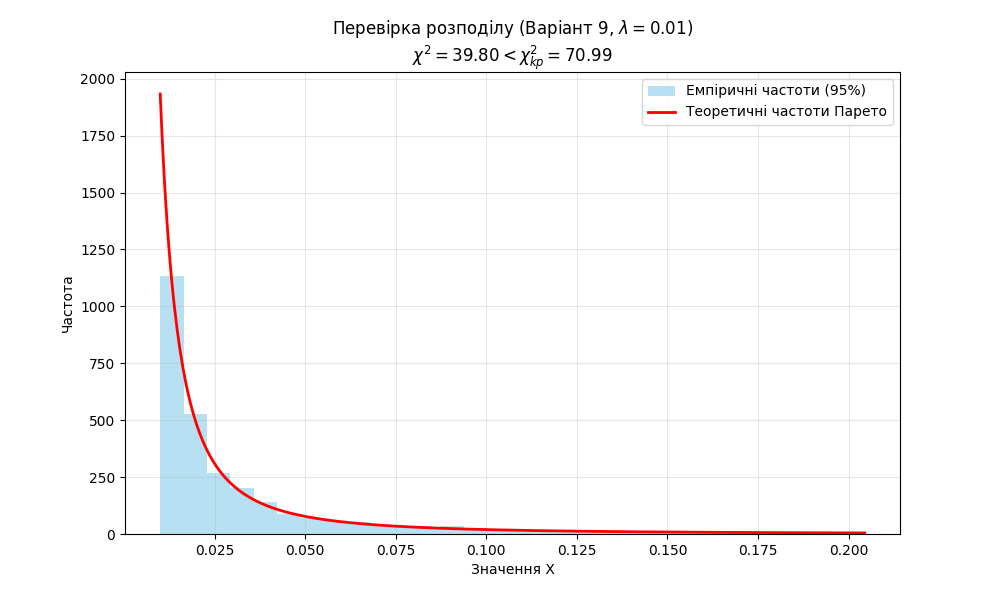
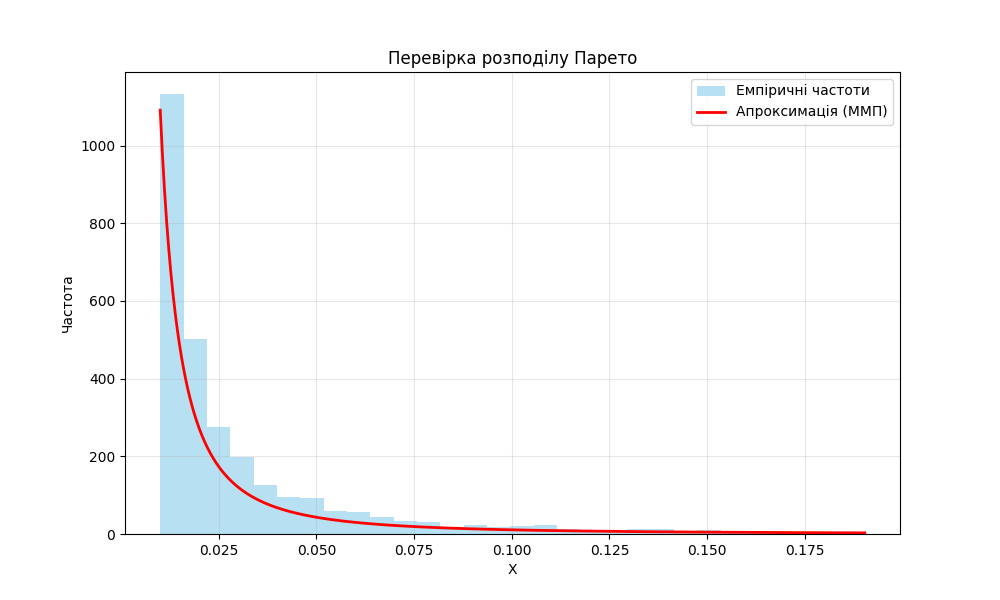
pastka ponomaryova

diff --git a/system-modeling-methods/lab-1/main.py b/system-modeling-methods/lab-1/main.py
@@ -4,56 +4,15 @@ import matplotlib.pyplot as plt
 from scipy import stats
 from tabulate import tabulate
 
-def print_chi_square_table(final_bins, final_ni):
-    table_data = []
-    theoretical_counts = []
-    chi_sq_total = 0
-    
-    for i in range(len(final_ni)):
-        a, b = final_bins[i], final_bins[i+1]
-        obs = final_ni[i]
-        p_i = pareto_cdf(b, lambd, alpha_theory) - pareto_cdf(a, lambd, alpha_theory)
-        expected_n = n * p_i
-        theoretical_counts.append(expected_n)
-        
-        # Обчислення доданку
-        term = ((obs - expected_n)**2) / expected_n if expected_n > 0 else 0
-        chi_sq_total += term
-        
-        # Формуємо рядок: інтервал, спостережувані, теоретичні, внесок у хі-квадрат
-        interval_str = f"[{a:7.4f}, {b:7.4f})"
-        table_data.append([i + 1, interval_str, obs, f"{expected_n:.2f}", f"{term:.4f}"])
-    
-    # Додаємо рядок з сумами
-    table_data.append(["", "РАЗОМ:", sum(final_ni), f"{sum(theoretical_counts):.2f}", f"{chi_sq_total:.4f}"])
-    
-    # Вивід красивої таблиці
-    headers = ["№", "Інтервал [a, b)", "n_i", "np_i^T", "Внесок (chi-sq)"]
-    print("\nСтатистична таблиця перевірки гіпотези:")
-    print(tabulate(table_data, headers=headers, tablefmt="fancy_grid", stralign="center"))
-    
-    return chi_sq_total
+# --- Допоміжні функції ---
 
-# 1. Параметри та генерація
-n = 3000
-lambd = 0.01  # Обраний параметр за умовою
-alpha_theory = 1.0  # Теоретичний показник форми для вашого генератора
-
-# Генеруємо xi ~ U(0, 1) та перетворюємо за формулою x = lambda / xi
-seed = int(time.time())
-np.random.seed(seed)
-xi = np.random.uniform(0, 1, n)
-x = lambd / xi
-
-# 2. Ручний розрахунок емпіричних характеристик
-def manual_stats(data):
-    # Середнє значення
+def manual_stats(data, n):
+    """Розрахунок середнього та дисперсії вручну"""
     s = 0
     for val in data:
         s += val
     mean_val = s / n
     
-    # Дисперсія (незміщена)
     v = 0
     for val in data:
         v += (val - mean_val)**2
@@ -61,35 +20,110 @@ def manual_stats(data):
     
     return mean_val, variance_val
 
-mean_emp, var_emp = manual_stats(x)
+def calculate_pareto_params_mle(data):
+    """
+    Оцінка параметрів розподілу Парето методом максимальної правдоподібності (MLE).
+    """
+    n = len(data)
+    # Оцінка xm (scale) - це мінімальне значення вибірки
+    xm_est = np.min(data)
+    
+    # Оцінка alpha (shape) - через логарифмічне рівняння правдоподібності
+    sum_ln = np.sum(np.log(data / xm_est))
+    alpha_est = n / sum_ln
+    
+    return xm_est, alpha_est
+
+def pareto_cdf(val, xm, alpha):
+    """Функція розподілу F(x) = 1 - (xm/x)^alpha"""
+    if val < xm:
+        return 0
+    return 1 - (xm / val)**alpha
+
+def print_chi_square_table(final_bins, final_ni, n, xm_param, alpha_param):
+    """Формування таблиці частот та розрахунок статистики хі-квадрат"""
+    table_data = []
+    theoretical_counts = []
+    chi_sq_total = 0
+    
+    for i in range(len(final_ni)):
+        a, b = final_bins[i], final_bins[i+1]
+        obs = final_ni[i]
+        
+        # Теоретична ймовірність попадання в інтервал
+        p_i = pareto_cdf(b, xm_param, alpha_param) - pareto_cdf(a, xm_param, alpha_param)
+        
+        # Корекція для останнього інтервалу (замикання хвоста)
+        if i == len(final_ni) - 1: 
+             p_i = 1 - pareto_cdf(a, xm_param, alpha_param)
+
+        expected_n = n * p_i
+        theoretical_counts.append(expected_n)
+        
+        # Розрахунок доданку (O - E)^2 / E
+        term = ((obs - expected_n)**2) / expected_n if expected_n > 0 else 0
+        chi_sq_total += term
+        
+        interval_str = f"[{a:7.4f}, {b:7.4f})"
+        table_data.append([i + 1, interval_str, obs, f"{expected_n:.2f}", f"{term:.4f}"])
+    
+    # Підсумковий рядок
+    table_data.append(["", "РАЗОМ:", sum(final_ni), f"{sum(theoretical_counts):.2f}", f"{chi_sq_total:.4f}"])
+    
+    print("\nСтатистична таблиця перевірки гіпотези:")
+    headers = ["№", "Інтервал [a, b)", "n_i", "np_i^T", "Внесок (chi-sq)"]
+    print(tabulate(table_data, headers=headers, tablefmt="fancy_grid", stralign="center"))
+    
+    return chi_sq_total
+
+# --- Основний блок ---
+
+# 1. Генерація даних
+n = 3000
+lambd_gen = 0.01
+
+seed = int(time.time())
+np.random.seed(seed)
+xi = np.random.uniform(0, 1, n)
+# Захист від ділення на нуль
+xi = np.maximum(xi, 1e-10) 
+x = lambd_gen / xi
+
+# 2. Розрахунок емпіричних характеристик (для звіту)
+mean_emp, var_emp = manual_stats(x, n)
 
 print(f"Емпіричне середнє: {mean_emp:.6f}")
 print(f"Емпірична дисперсія: {var_emp:.6f}")
+
+# 3. Визначення параметрів розподілу (Метод ММП)
+xm_calc, alpha_calc = calculate_pareto_params_mle(x)
+
+print("-" * 50)
+print(f"Оцінка параметрів (MLE): x_m = {xm_calc:.6f}, alpha = {alpha_calc:.6f}")
 print("-" * 50)
 
-# 3. Побудова інтервального ряду та перевірка хі-квадрат вручну
-# Для розподілу Парето з довгим хвостом використовуємо 95-й перцентиль як межу для інтервалів
+# 4. Побудова інтервального ряду
 x_sorted = sorted(x)
-limit_95 = x_sorted[int(n * 0.95)] # Відсікаємо 5% екстремальних значень для стабільності інтервалів
+limit_95 = x_sorted[int(n * 0.95)] 
 min_x = min(x)
 
-# Початкове розбиття (35 інтервалів до 95-го перцентиля + 1 для "хвоста")
-k_initial = 70
+# Розбиття на інтервали
+k_initial = 50 
 h = (limit_95 - min_x) / k_initial
 bins = [min_x + i * h for i in range(k_initial)]
-bins.append(max(x)) # Останній інтервал закриває весь "хвіст" до нескінченності
+bins.append(max(x)) 
 
-# Підрахунок частот n_i
+# Підрахунок частот
 frequencies = [0] * (len(bins) - 1)
 for val in x:
     for i in range(len(bins) - 1):
         if bins[i] <= val < bins[i+1]:
             frequencies[i] += 1
             break
-    if val == bins[-1]: # Крайнє значення
+    if val == bins[-1]: 
         frequencies[-1] += 1
 
-# Об'єднання інтервалів, де n_i < 5 (умова застосування хі-квадрат)
+# Об'єднання малочисельних інтервалів
 final_bins = [bins[0]]
 final_ni = []
 current_n = 0
@@ -101,64 +135,47 @@ for i in range(len(frequencies)):
         final_ni.append(current_n)
         current_n = 0
 
-# Якщо останній інтервал після циклу все ще < 5, об'єднуємо його з передостаннім
 if final_ni[-1] < 5 and len(final_ni) > 1:
     last_n = final_ni.pop()
     final_ni[-1] += last_n
     final_bins.pop(-2)
 
-# 4. Розрахунок теоретичних частот np_i та критерію
-# Для Парето F(x) = 1 - (lambda/x)^alpha. Тут alpha = 1.
-def pareto_cdf(val, l, a):
-    return 1 - (l / val)**a
+# 5. Перевірка за критерієм Хі-квадрат
+chi_sq_val = print_chi_square_table(final_bins, final_ni, n, xm_calc, alpha_calc)
 
-chi_sq_val = 0
-chi_sq_val = print_chi_square_table(final_bins, final_ni)
-
-# 5. Перевірка результату
+# 6. Порівняння з критичним значенням
 k_final = len(final_ni)
-# Ступені вільності: k - 1 - q. Ми знаємо параметри генератора, тому q = 0.
-df = k_final - 1 
+q = 2 # Кількість оцінених параметрів (xm, alpha)
+df = k_final - 1 - q
 alpha_level = 0.05
-chi_crit = stats.chi2.ppf(1 - alpha_level, df)
 
-print("-" * 65)
-print(f"Сумарне значення Chi-square: {chi_sq_val:.4f}")
-print(f"Критичне значення (df={df}): {chi_crit:.4f}")
-
-if chi_sq_val < chi_crit:
-    print("РЕЗУЛЬТАТ: Гіпотеза ПРИЙНЯТА (Відповідає розподілу Парето)")
+if df <= 0:
+    print("Помилка: недостатньо інтервалів для перевірки.")
 else:
-    print("РЕЗУЛЬТАТ: Гіпотеза ВІДХИЛЕНА")
+    chi_crit = stats.chi2.ppf(1 - alpha_level, df)
+    print("-" * 65)
+    print(f"Ступені вільності (k-1-2): {df}")
+    print(f"Хі-квадрат розрах.: {chi_sq_val:.4f}")
+    print(f"Хі-квадрат критич.: {chi_crit:.4f}")
 
-# 6. Візуалізація
+    if chi_sq_val < chi_crit:
+        print("РЕЗУЛЬТАТ: Гіпотеза ПРИЙНЯТА")
+    else:
+        print("РЕЗУЛЬТАТ: Гіпотеза ВІДХИЛЕНА")
+
+# 7. Візуалізація
 plt.figure(figsize=(10, 6))
 
-# Гістограма для основної маси даних (до 95 перцентиля)
-counts, bins_hist, _ = plt.hist(
-    x[x < limit_95],
-    bins=30,
-    density=False,
-    alpha=0.6,
-    color='skyblue',
-    label='Емпіричні частоти (95%)'
-)
+# Гістограма
+plt.hist(x[x < limit_95], bins=30, density=False, alpha=0.6, color='skyblue', label='Емпіричні частоти')
 
-# Ширина інтервалу гістограми
-h = bins_hist[1] - bins_hist[0]
+# Теоретична крива MLE
+line_x = np.linspace(xm_calc, limit_95, 1000)   
+line_y = (alpha_calc * (xm_calc**alpha_calc)) / (line_x**(alpha_calc + 1)) * n * (bins[1] - bins[0]) # Масштабування для порівняння з гістограмою
 
-# Теоретична крива щільності f(x) = alpha * lambda^alpha / x^(alpha + 1)
-# При alpha = 1: f(x) = lambda / x^2
-line_x = np.linspace(min_x, limit_95, 500)
-line_y = lambd / (line_x**2) 
-
-#Масштабування до частот
-line_y_scaled = line_y * n * h
-
-plt.plot(line_x, line_y_scaled, 'r-', lw=2, label='Теоретичні частоти Парето')
-
-plt.title(f'Перевірка розподілу (Варіант 9, $\lambda={lambd}$)\n$\chi^2={chi_sq_val:.2f} < \chi^2_{{kp}}={chi_crit:.2f}$')
-plt.xlabel('Значення X')
+plt.plot(line_x, line_y, 'r-', lw=2, label=f'Апроксимація (ММП)')
+plt.title(f'Перевірка розподілу Парето')
+plt.xlabel('X')
 plt.ylabel('Частота')
 plt.legend()
 plt.grid(alpha=0.3)
